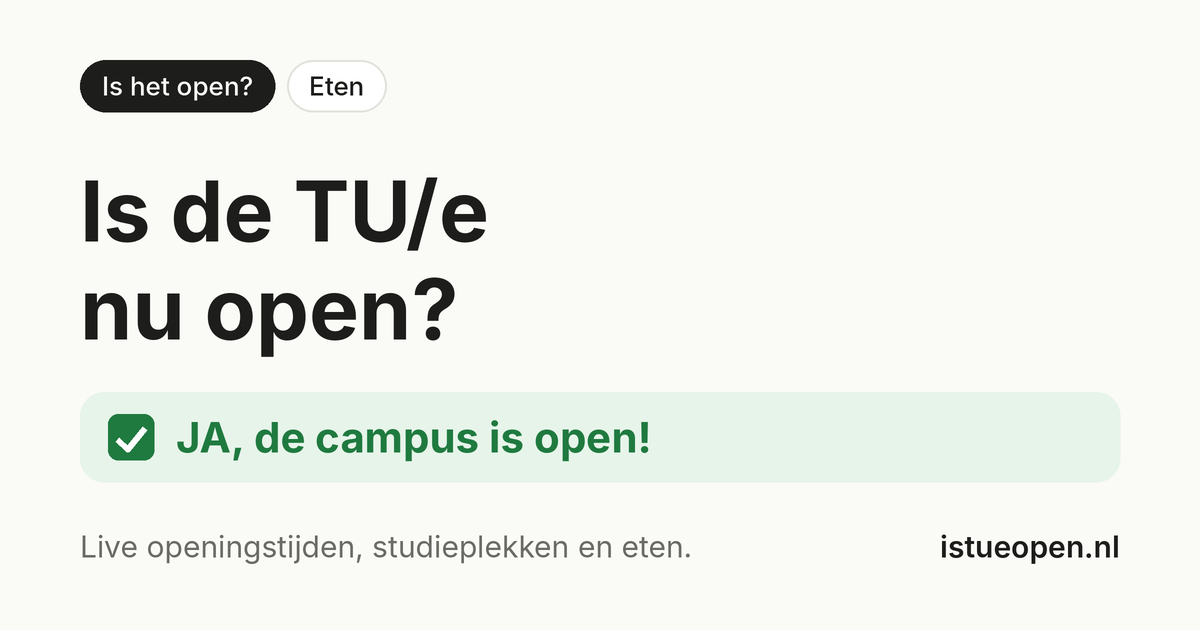
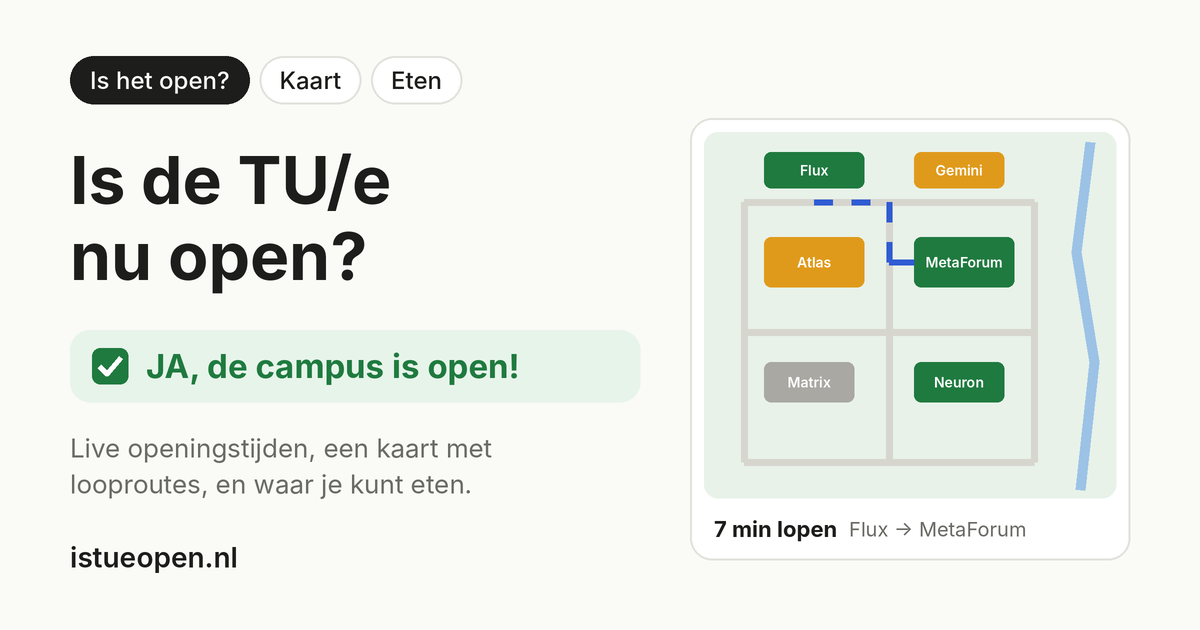
updated preview

diff --git a/index.html b/index.html
@@ -4,12 +4,12 @@
 <meta charset="utf-8">
 <meta name="viewport" content="width=device-width, initial-scale=1">
 <title>Is the TU/e open?</title>
-<meta name="description" content="Which TU/e campus buildings are open right now? Live opening hours for every building, where to study and where to eat.">
+<meta name="description" content="Which TU/e campus buildings are open right now? Live opening hours for every building, a campus map with walking routes, where to study and where to eat.">
 <link rel="icon" type="image/png" href="favicon.png">
 <meta property="og:type" content="website">
 <meta property="og:site_name" content="Is the TU/e open?">
 <meta property="og:title" content="Is the TU/e open?">
-<meta property="og:description" content="Which TU/e buildings are open right now? Live opening hours, where to study and where to eat.">
+<meta property="og:description" content="Which TU/e buildings are open right now? Live opening hours, a campus map with walking routes, and where to eat.">
 <meta property="og:url" content="https://istueopen.nl/">
 <meta property="og:image" content="https://istueopen.nl/preview.png">
 <meta property="og:image:width" content="1200">
@@ -42,6 +42,7 @@
 <h2 id="answer">Checking…</h2>
 <p id="summary"></p>
 <p id="clock"></p>
+<p><a href="map">See it on the campus map, with walking routes →</a></p>
 <p id="weather" hidden></p>
 <p id="exam" hidden></p>
 <hr>

diff --git a/nl/index.html b/nl/index.html
@@ -4,12 +4,12 @@
 <meta charset="utf-8">
 <meta name="viewport" content="width=device-width, initial-scale=1">
 <title>Is de TU/e open?</title>
-<meta name="description" content="Welke TU/e-gebouwen zijn nu open? Live openingstijden van alle gebouwen, waar je kunt studeren en waar je kunt eten.">
+<meta name="description" content="Welke TU/e-gebouwen zijn nu open? Live openingstijden van alle gebouwen, een kaart van de campus met looproutes, studieplekken en eten.">
 <link rel="icon" type="image/png" href="../favicon.png">
 <meta property="og:type" content="website">
 <meta property="og:site_name" content="Is de TU/e open?">
 <meta property="og:title" content="Is de TU/e open?">
-<meta property="og:description" content="Welke TU/e-gebouwen zijn nu open? Live openingstijden, waar je kunt studeren en waar je kunt eten.">
+<meta property="og:description" content="Welke TU/e-gebouwen zijn nu open? Live openingstijden, een kaart met looproutes en waar je kunt eten.">
 <meta property="og:url" content="https://istueopen.nl/nl/">
 <meta property="og:image" content="https://istueopen.nl/preview-nl.png">
 <meta property="og:image:width" content="1200">
@@ -42,6 +42,7 @@
 <h2 id="answer">Even kijken…</h2>
 <p id="summary"></p>
 <p id="clock"></p>
+<p><a href="kaart">Bekijk het op de kaart, met looproutes →</a></p>
 <p id="weather" hidden></p>
 <p id="exam" hidden></p>
 <hr>

diff --git a/nl/eten.html b/nl/eten.html
@@ -60,7 +60,7 @@
 <ul>
   <li>Tik op ☆ naast een naam om die bovenaan vast te zetten.</li>
   <li>Kantines zijn vooral doordeweeks rond lunchtijd open. 's Avonds en in het weekend is Hubble meestal je beste optie.</li>
-  <li>Tik op een naam om de plek op de kaart te zien.</li>
+  <li>Tik op een naam om de plek op Google Maps te zien, of gebruik de <a href="kaart">kaart van de campus</a> voor looproutes.</li>
   <li>De TU/e noemt geen weekendtijden voor de kantines, dus die staan hier in het weekend op gesloten.</li>
   <li>In vakanties, in de zomer en in tentamenweken veranderen de tijden vaak (soms kun je dan ook avondeten krijgen).</li>
   <li>Tip: zet deze site op het beginscherm van je telefoon (browsermenu → ‘Toevoegen aan beginscherm’ of ‘Zet op beginscherm’) om hem als app te openen.</li>

diff --git a/food.html b/food.html
@@ -60,7 +60,7 @@
 <ul>
   <li>Tap ☆ next to a name to pin it to the top.</li>
   <li>Canteens are mostly open around lunch on weekdays. In the evening and at weekends, Hubble is usually your best bet.</li>
-  <li>Tap a name to see it on the map.</li>
+  <li>Tap a name to see it on Google Maps, or use the <a href="map">campus map</a> for walking routes.</li>
   <li>TU/e doesn't list weekend hours for the canteens, so they are shown as closed at weekends.</li>
   <li>Hours often change during holidays, the summer and exam weeks (sometimes with extra dinner options).</li>
   <li>Tip: add this site to your phone's home screen (browser menu → “Add to Home screen”) to open it like an app.</li>

diff --git a/sw.js b/sw.js
@@ -1,6 +1,6 @@
 // keeps a copy of the site so it also opens without internet.
 // always tries the network first, so updates show up straight away when online.
-var CACHE = "istueopen-v4";
+var CACHE = "istueopen-v5";
 var FILES = [
   "./", "food", "report", "privacy", "404.html",
   "nl/", "nl/eten", "nl/melden", "nl/privacy",

diff --git a/404.html b/404.html
@@ -16,6 +16,7 @@
 <ul>
   <li><a href="/">Is the TU/e open?</a> (English)</li>
   <li><a href="/nl/" lang="nl">Is de TU/e open?</a> (Nederlands)</li>
+  <li><a href="/map">Campus map</a> / <a href="/nl/kaart" lang="nl">Kaart</a></li>
 </ul>
 </body>
 </html>
